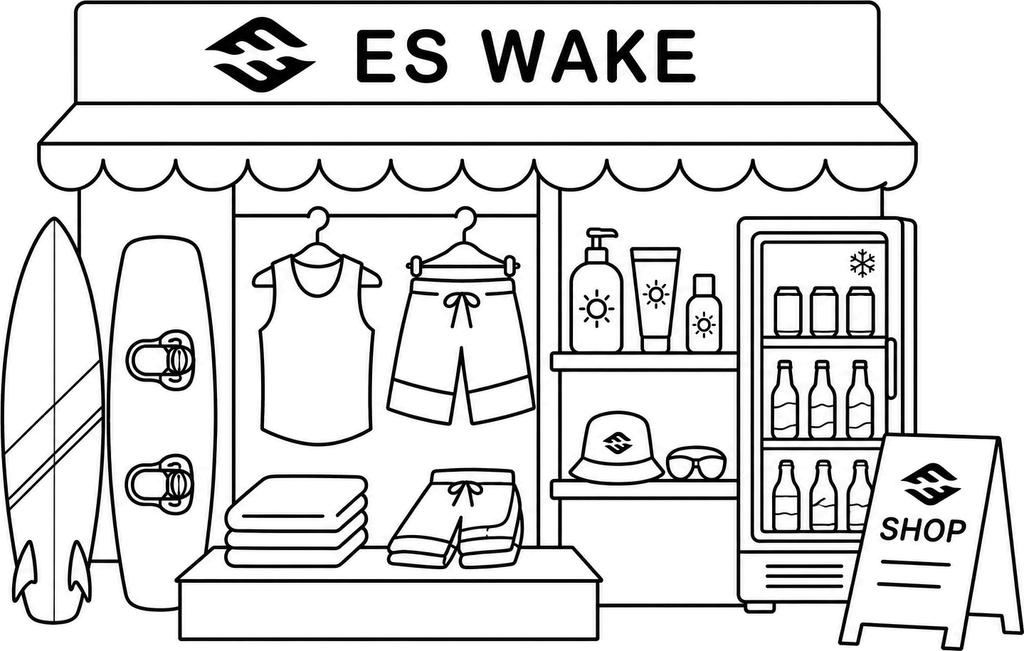
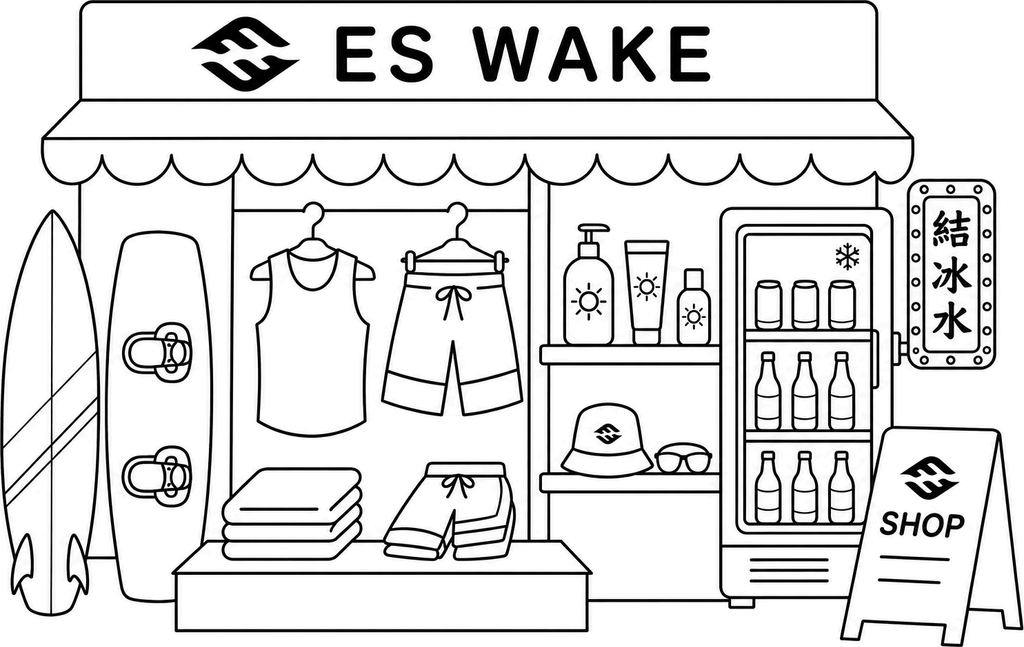
Refresh on-site shop art and preload guide images.
Swap in the iced-water shop illustration, tighten guide type scale, and idle-preload assets so accordion panels open without image pop-in.

Changed region(s): [[0.0, 0.0, 1.0, 1.0], [0.9375, 0.9274, 1.0, 0.9892], [0.125, 0.34, 0.1875, 0.3709]]

diff --git a/src/pages/liff/book/BookGuideVisuals.tsx b/src/pages/liff/book/BookGuideVisuals.tsx
@@ -97,6 +97,9 @@ function GearIcon({ src }: { src: string }) {
       alt=""
       aria-hidden
       loading="lazy"
+      decoding="async"
+      width={30}
+      height={30}
       style={{ width: 30, height: 30, flexShrink: 0, objectFit: 'contain' }}
     />
   )
@@ -118,6 +121,7 @@ export function GuideOnsiteShop({
         src={image}
         alt={alt}
         loading="lazy"
+        decoding="async"
         style={{
           display: 'block',
           width: '100%',
@@ -164,7 +168,7 @@ export function GuideCancelTimeline({
                     borderRadius: '50%',
                     background: T.ink,
                     color: '#fff',
-                    fontSize: 11,
+                    fontSize: ty.micro,
                     fontWeight: 700,
                     display: 'inline-flex',
                     alignItems: 'center',
@@ -247,7 +251,7 @@ export function GuideGearGrid({
     borderRadius: '50%',
     background: ok ? c.success[500] : c.danger[500],
     color: '#fff',
-    fontSize: 11,
+    fontSize: ty.micro,
     fontWeight: 700,
     display: 'inline-flex',
     alignItems: 'center',
@@ -256,6 +260,7 @@ export function GuideGearGrid({
     lineHeight: 1,
   })
 
+  /** 半欄很窄：用 caption，避免 body 字級把列撐高、硬折行 */
   const itemRow = (last: boolean): CSSProperties => ({
     display: 'grid',
     gridTemplateColumns: '32px minmax(0, 1fr)',
@@ -264,7 +269,7 @@ export function GuideGearGrid({
     minHeight: 46,
     padding: '8px 0',
     borderBottom: last ? 'none' : `1px solid ${T.borderSubtle}`,
-    fontSize: ty.body,
+    fontSize: ty.caption,
     fontWeight: 600,
     color: T.ink,
     lineHeight: 1.4,
@@ -331,15 +336,7 @@ export function GuideGearGrid({
         </div>
       </div>
       <div style={{ ...footnote, marginTop: 16, padding: '12px 10px' }}>
-        <div
-          style={{
-            fontSize: ty.caption,
-            color: T.inkSoft,
-            lineHeight: 1.5,
-            marginBottom: 10,
-            textAlign: 'center',
-          }}
-        >
+        <div style={{ color: T.inkSoft, lineHeight: 1.5, marginBottom: 10 }}>
           <div>{facilitiesNote.winter}</div>
           <div style={{ marginTop: 2 }}>{facilitiesNote.facility}</div>
         </div>
@@ -367,6 +364,9 @@ export function GuideGearGrid({
                   src={facilityIcons[i]}
                   alt={label}
                   loading="lazy"
+                  decoding="async"
+                  width={40}
+                  height={40}
                   style={{ width: 40, height: 40, objectFit: 'contain' }}
                 />
               ) : null}
@@ -424,7 +424,7 @@ export function GuideArrivalSteps({
                 borderRadius: '50%',
                 background: c.info[500],
                 color: '#fff',
-                fontSize: 12,
+                fontSize: ty.caption,
                 fontWeight: 700,
                 alignItems: 'center',
                 justifyContent: 'center',
@@ -466,6 +466,7 @@ export function GuideArrivalSteps({
                   alt=""
                   aria-hidden
                   loading="lazy"
+                  decoding="async"
                   style={{ maxWidth: 84, maxHeight: 66, objectFit: 'contain' }}
                 />
               ) : null}

diff --git a/src/pages/liff/book/liffBookingI18n.ts b/src/pages/liff/book/liffBookingI18n.ts
@@ -674,8 +674,8 @@ export const BOOK_I18N: Record<BookLocale, BookI18nStrings> = {
           '預約日前一天會再發送提醒通知。',
         ],
         onsiteShop: {
-          notes: ['衝浪褲、防曬用品與啤酒現場販售', '需要請告知現場工作人員'],
-          alt: 'ES Wake 現場小舖插圖：衝浪板、寬板、背心、衝浪褲、防曬用品、帽子與冰櫃啤酒',
+          notes: ['衝浪衣褲、防曬用品、啤酒、飲料與結冰水現場販售', '需要請告知現場工作人員'],
+          alt: 'ES Wake 現場小舖插圖：衝浪板、寬板、背心、衝浪褲、防曬用品、帽子、冰櫃與結冰水',
         },
       },
       cancelPolicy: {
@@ -1068,8 +1068,8 @@ export const BOOK_I18N: Record<BookLocale, BookI18nStrings> = {
           'We send a reminder the day before.',
         ],
         onsiteShop: {
-          notes: ['Board shorts, sun protection and beer are sold on site', 'Just ask the staff'],
-          alt: 'Illustration of the ES Wake on-site shop: boards, tank tops, board shorts, sunscreen, hats and a beer fridge',
+          notes: ['Board shorts, sun protection, beer, drinks and iced water are sold on site', 'Just ask the staff'],
+          alt: 'Illustration of the ES Wake on-site shop: boards, tank tops, board shorts, sunscreen, hats, a beer fridge and iced water',
         },
       },
       cancelPolicy: {

diff --git a/src/pages/liff/book/BookGuidePage.tsx b/src/pages/liff/book/BookGuidePage.tsx
@@ -1,4 +1,4 @@
-import { useState } from 'react'
+import { useEffect, useState } from 'react'
 
 import { buildOaHomeUrl } from '../../shop/lib/lineDeepLink'
 import { useBookLocale } from './BookLocaleContext'
@@ -27,6 +27,7 @@ import {
   FACILITY_ICONS,
   GEAR_ICONS,
   ONSITE_SHOP_IMAGE,
+  preloadGuideImages,
   visitMapUrl,
 } from './liffBookingGuide'
 import { BOOK_THEME as T, BOOK_TYPE as ty } from './bookTheme'
@@ -100,6 +101,8 @@ function GuideAddressRow({ address, mapQuery, copyLabel, copiedLabel }: {
 export function BookGuidePage() {
   const { s } = useBookLocale()
   const g = s.guide
+
+  useEffect(() => preloadGuideImages(), [])
 
   const sections = [
     {
@@ -176,6 +179,7 @@ export function BookGuidePage() {
               src={DIRECTIONS_GUIDE_IMAGE}
               alt={g.directions.arrivalMapAlt}
               loading="lazy"
+              decoding="async"
               style={{
                 display: 'block',
                 width: '100%',
